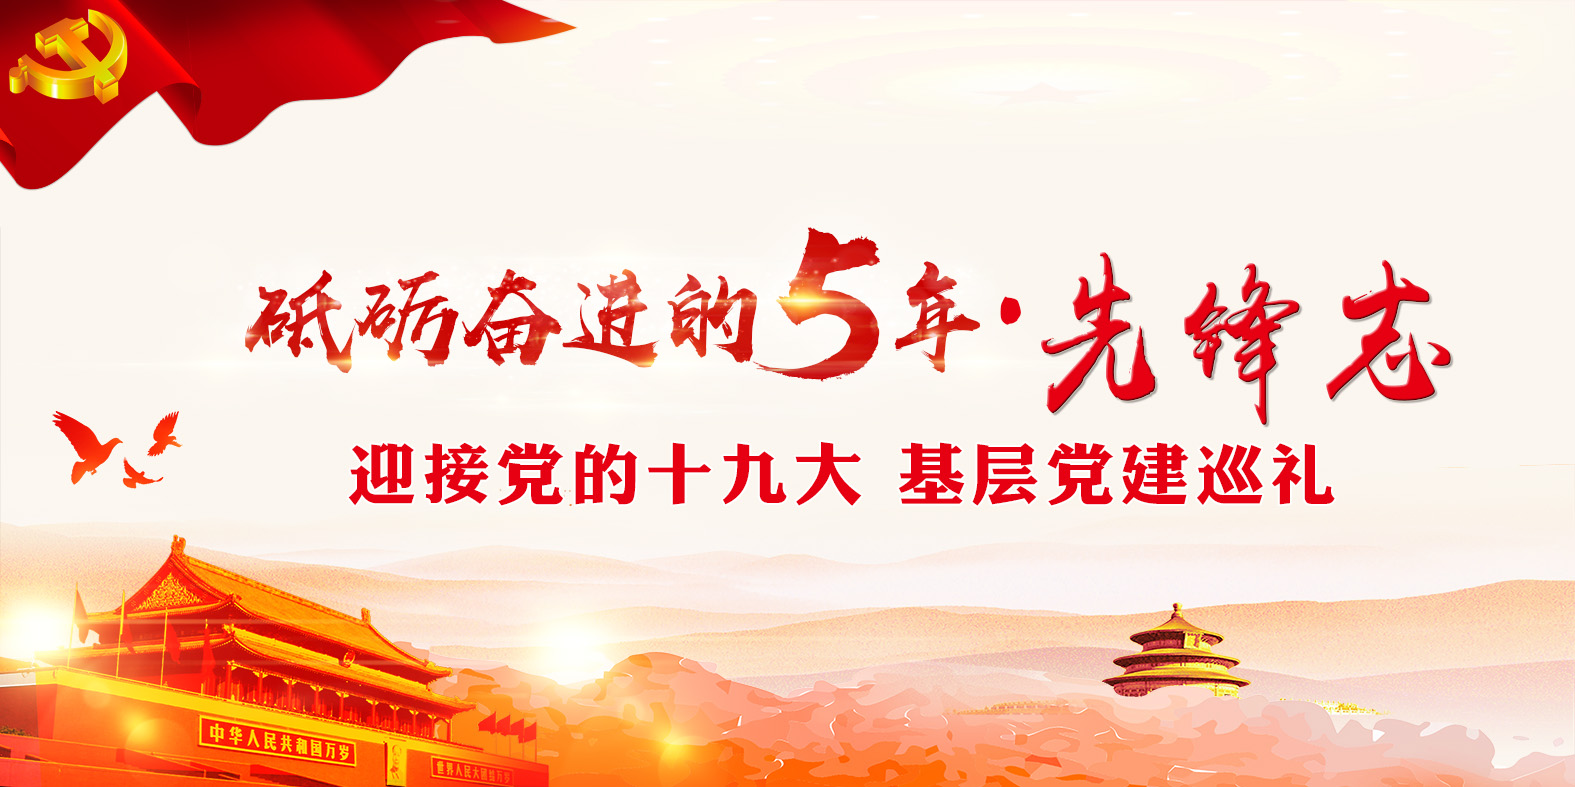
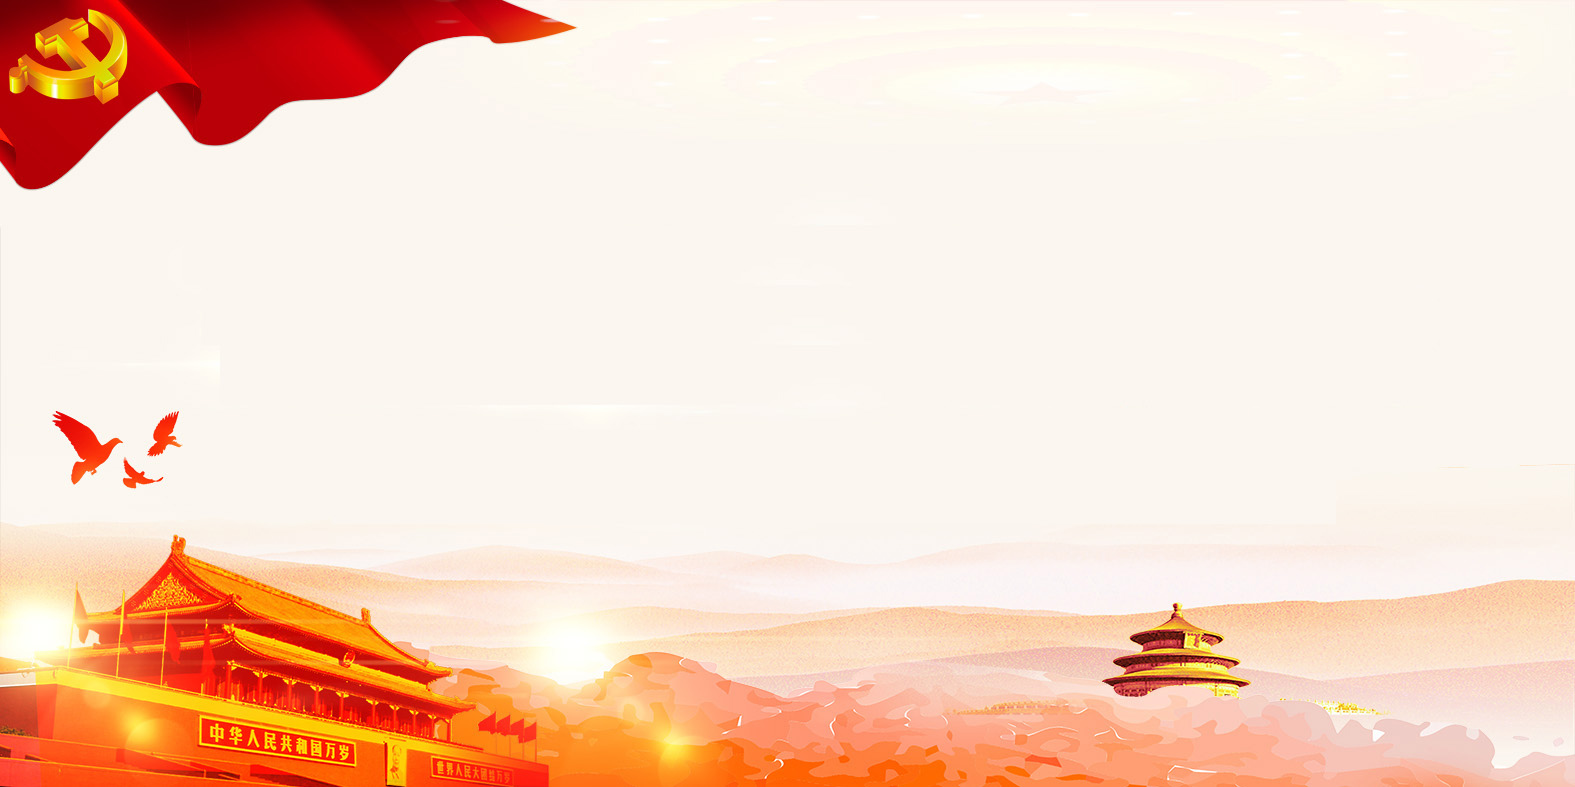
修改

Changed region(s): [[0.2178, 0.3355, 0.9333, 0.6404], [0.1556, 0.2745, 0.6533, 0.4879]]

diff --git a/css/index.css b/css/index.css
@@ -116,13 +116,9 @@ a:hover img {
 .width980, .box_1 {
 	width: 980px
 }
-
-
 .width980a {
 	width: 100%
 }
-
-
 .dd {
 	height: 40px
 }
@@ -135,8 +131,52 @@ a:hover img {
 	background: url(../images/bannerN.jpg) center top no-repeat
 }
 
-.head{ width: 100%; height:auto; max-width: 1400px;  overflow: hidden;   }
-.head img{width: 100%; height: auto;}
+.head{ 
+	width:100%; 
+	max-width: 1400px; 
+	height:700px;  
+	overflow: hidden; 
+	background:url(../images/headbg.jpg)  no-repeat ;
+	background-size: 100% 100%;
+}
+.head .layer {
+	width: 100%;
+	position: relative;
+	height: 550px;
+}
+
+.head .czxyj,  .head .yjddh, .head .light {
+	position: absolute;
+	text-indent: -1000px;
+	overflow: hidden;
+}
+.head .light{
+	width: 651px;
+	height: 339px;
+	background: url(../images/light.png) no-repeat;
+	top: 50px;
+	left: 458px;
+	z-index: 102;
+}
+.head .czxyj {
+	top: 160px;
+	left:136px;
+	width: 1074px;
+	height: 222px;
+	background: url(../images/h_word01.png) no-repeat;
+	z-index: 101;
+	background-size: 100% 100%;
+	margin-left: -200%;
+}
+.head .yjddh {
+	top: 380px;
+	left: 300px;
+	width: 798px;
+	height: 56px;
+	background: url(../images/h_word02.png) no-repeat;
+	background-size: 100% 100%;
+	margin-left: -200%;
+}
 
 .content{ width: 980px; height: auto;}
 .qjj {

diff --git a/index.html b/index.html
@@ -12,7 +12,13 @@
 </head>
 <body>
 	<!--head begin-->
-	<div class="head"><img src="images/headbg.jpg"></div>
+	<div class="head">
+		<div class="layer">
+			<div class="light"></div>
+			<div class="czxyj">砥砺前进</div>
+			<div class="yjddh">勇立潮头</div>
+		</div>
+	</div>
 	<!--head end-->
 	<!--主体内容 begin-->
 	<div class="content">
@@ -975,4 +981,18 @@
 	<script type="text/javascript" src="js/a0601all.js"></script>
 
 </body>
+
+<script type="text/javascript">
+		$(document).ready(function() {
+			$(".czxyj").animate({
+				marginLeft: "0"
+			}, 1600);
+			$(".yjddh").animate({
+				marginLeft: "0"
+			}, 2600);
+			$(".light").css("opacity", "0").delay(300).animate({
+				opacity: "1"
+			}, 5000);
+		});
+	</script>
 </html>                     
